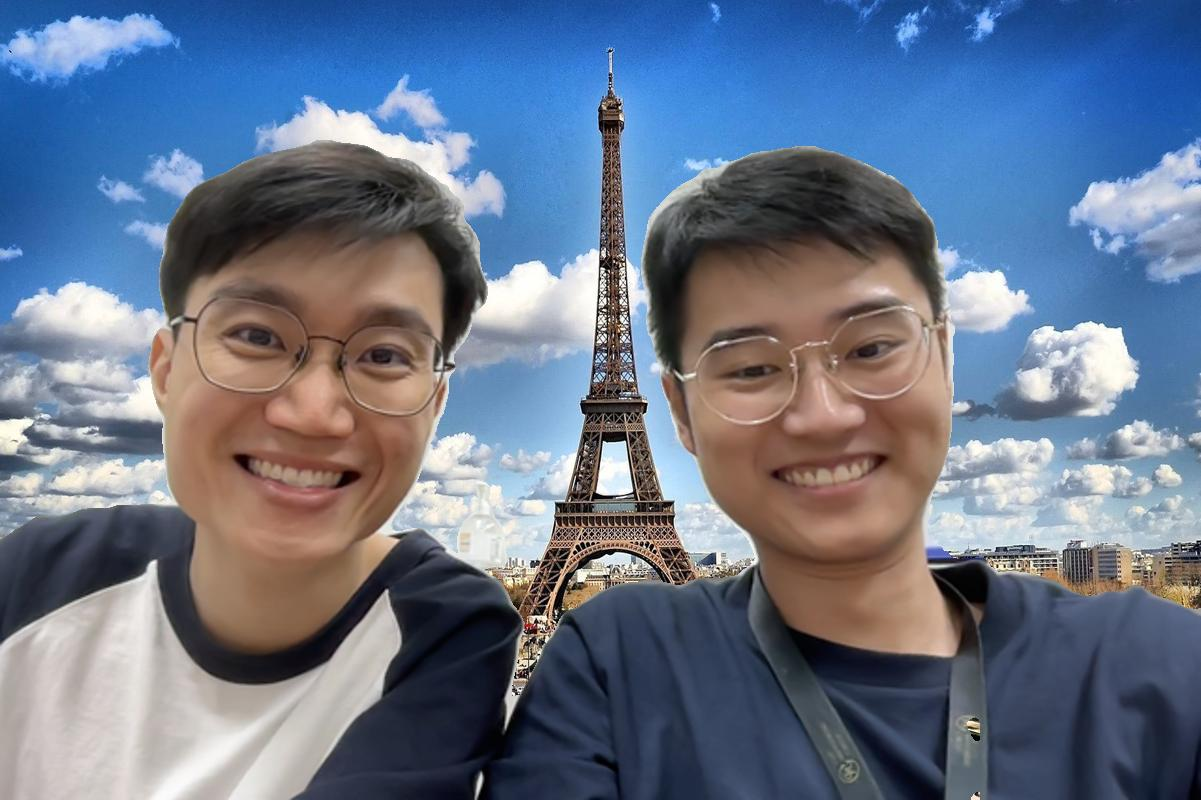
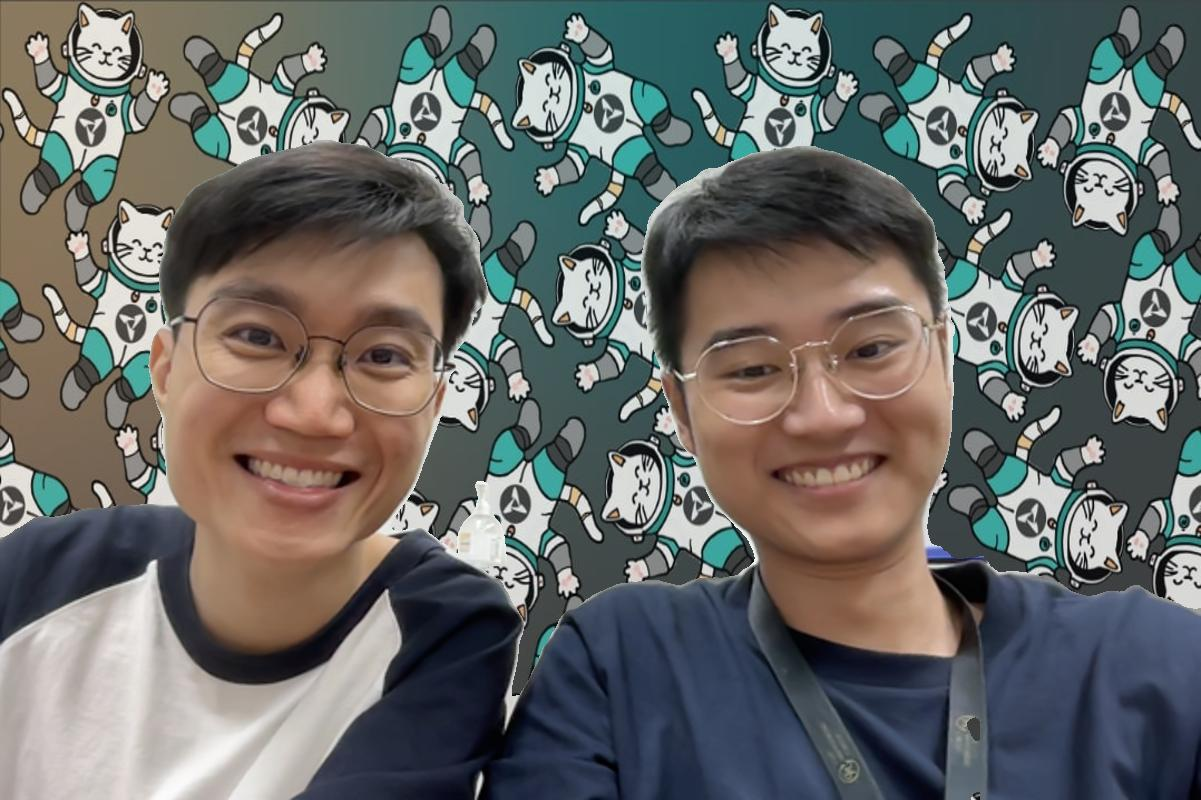
bgs

diff --git a/streamlit_app.py b/streamlit_app.py
@@ -41,6 +41,10 @@ background_options = {
     "Cyberpunk": "Cyberpunk.jpg",
     "SMU": "SMU.jpg",
     "Cherry Blossoms": "Cherry-Blossoms.jpg",
+    "SMUBIA1": "SMUBIA1.jpg",
+    "SMUBIA2": "SMUBIA2.jpg",
+    "SMUBIA3": "SMUBIA3.jpg",
+    "SMUBIA4": "SMUBIA4.jpg",
 }
 
 # not in use until we have more than one style

diff --git a/README.md b/README.md
@@ -1,1 +1,9 @@
 # photobooth-cv
+
+gradient ascent for deepdream explanation:
+- normally, we backpropagate the gradient of the loss (cross-entropy(predicted probabilities, actual labels)) wrt each weight
+- i.e., we aim to descend the gradient of the loss wrt each weight, thus decreasing the loss (gradient descent)
+- in deepdream gradient ascent, we backpropagate the magnitude/norm of an intermediate layer's output wrt each pixel in the image
+- we are asking, how can we adjust the value of each pixel in the image to increase the magnitude of the intermediate layer's output,
+- i.e., ascending the gradient of the intermediate layer output wrt each pixel of the image (gradient ascent)
+
